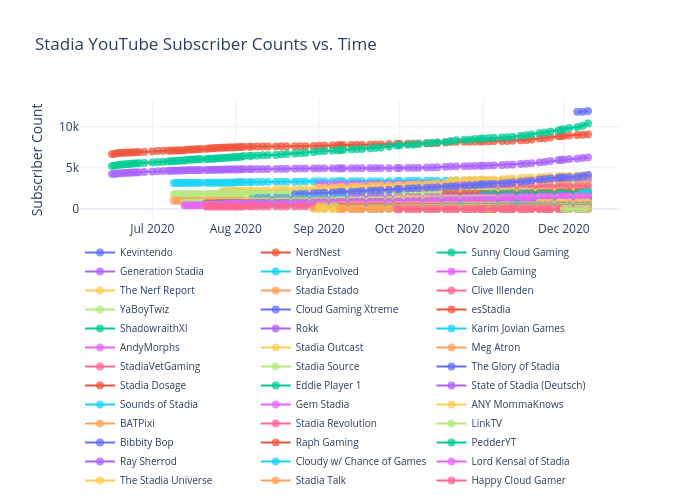
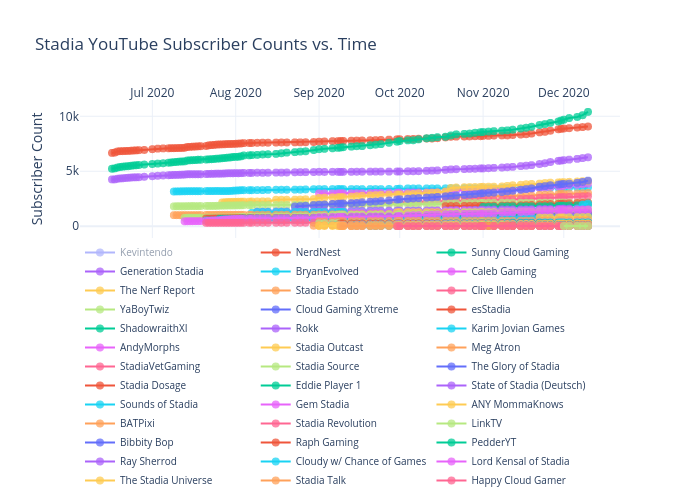
Add files via upload

diff --git a/figure.js b/figure.js
@@ -238,6 +238,8 @@ var figure = {
                 "size": 8,
                 "opacity": 0.75
             },
+            "visible": "legendonly",
+            "showlegend": true,
             "stackgroup": null,
             "connectgaps": true,
             "hovertemplate": "%{x}, %{y}"
@@ -14563,6 +14565,7 @@ var figure = {
             "text": "Stadia YouTube Subscriber Counts vs. Time"
         },
         "xaxis": {
+            "side": "top",
             "type": "date",
             "range": [
                 "2020-06-04 21:47:10.3162",
@@ -14576,8 +14579,8 @@ var figure = {
         "yaxis": {
             "type": "linear",
             "range": [
-                15,
-                11900
+                -771.513803123865,
+                11186.513803123866
             ],
             "title": {
                 "text": "Subscriber Count"
@@ -14586,7 +14589,7 @@ var figure = {
         },
         "legend": {
             "x": 0,
-            "y": -0.15,
+            "y": 0,
             "font": {
                 "size": 10
             },
